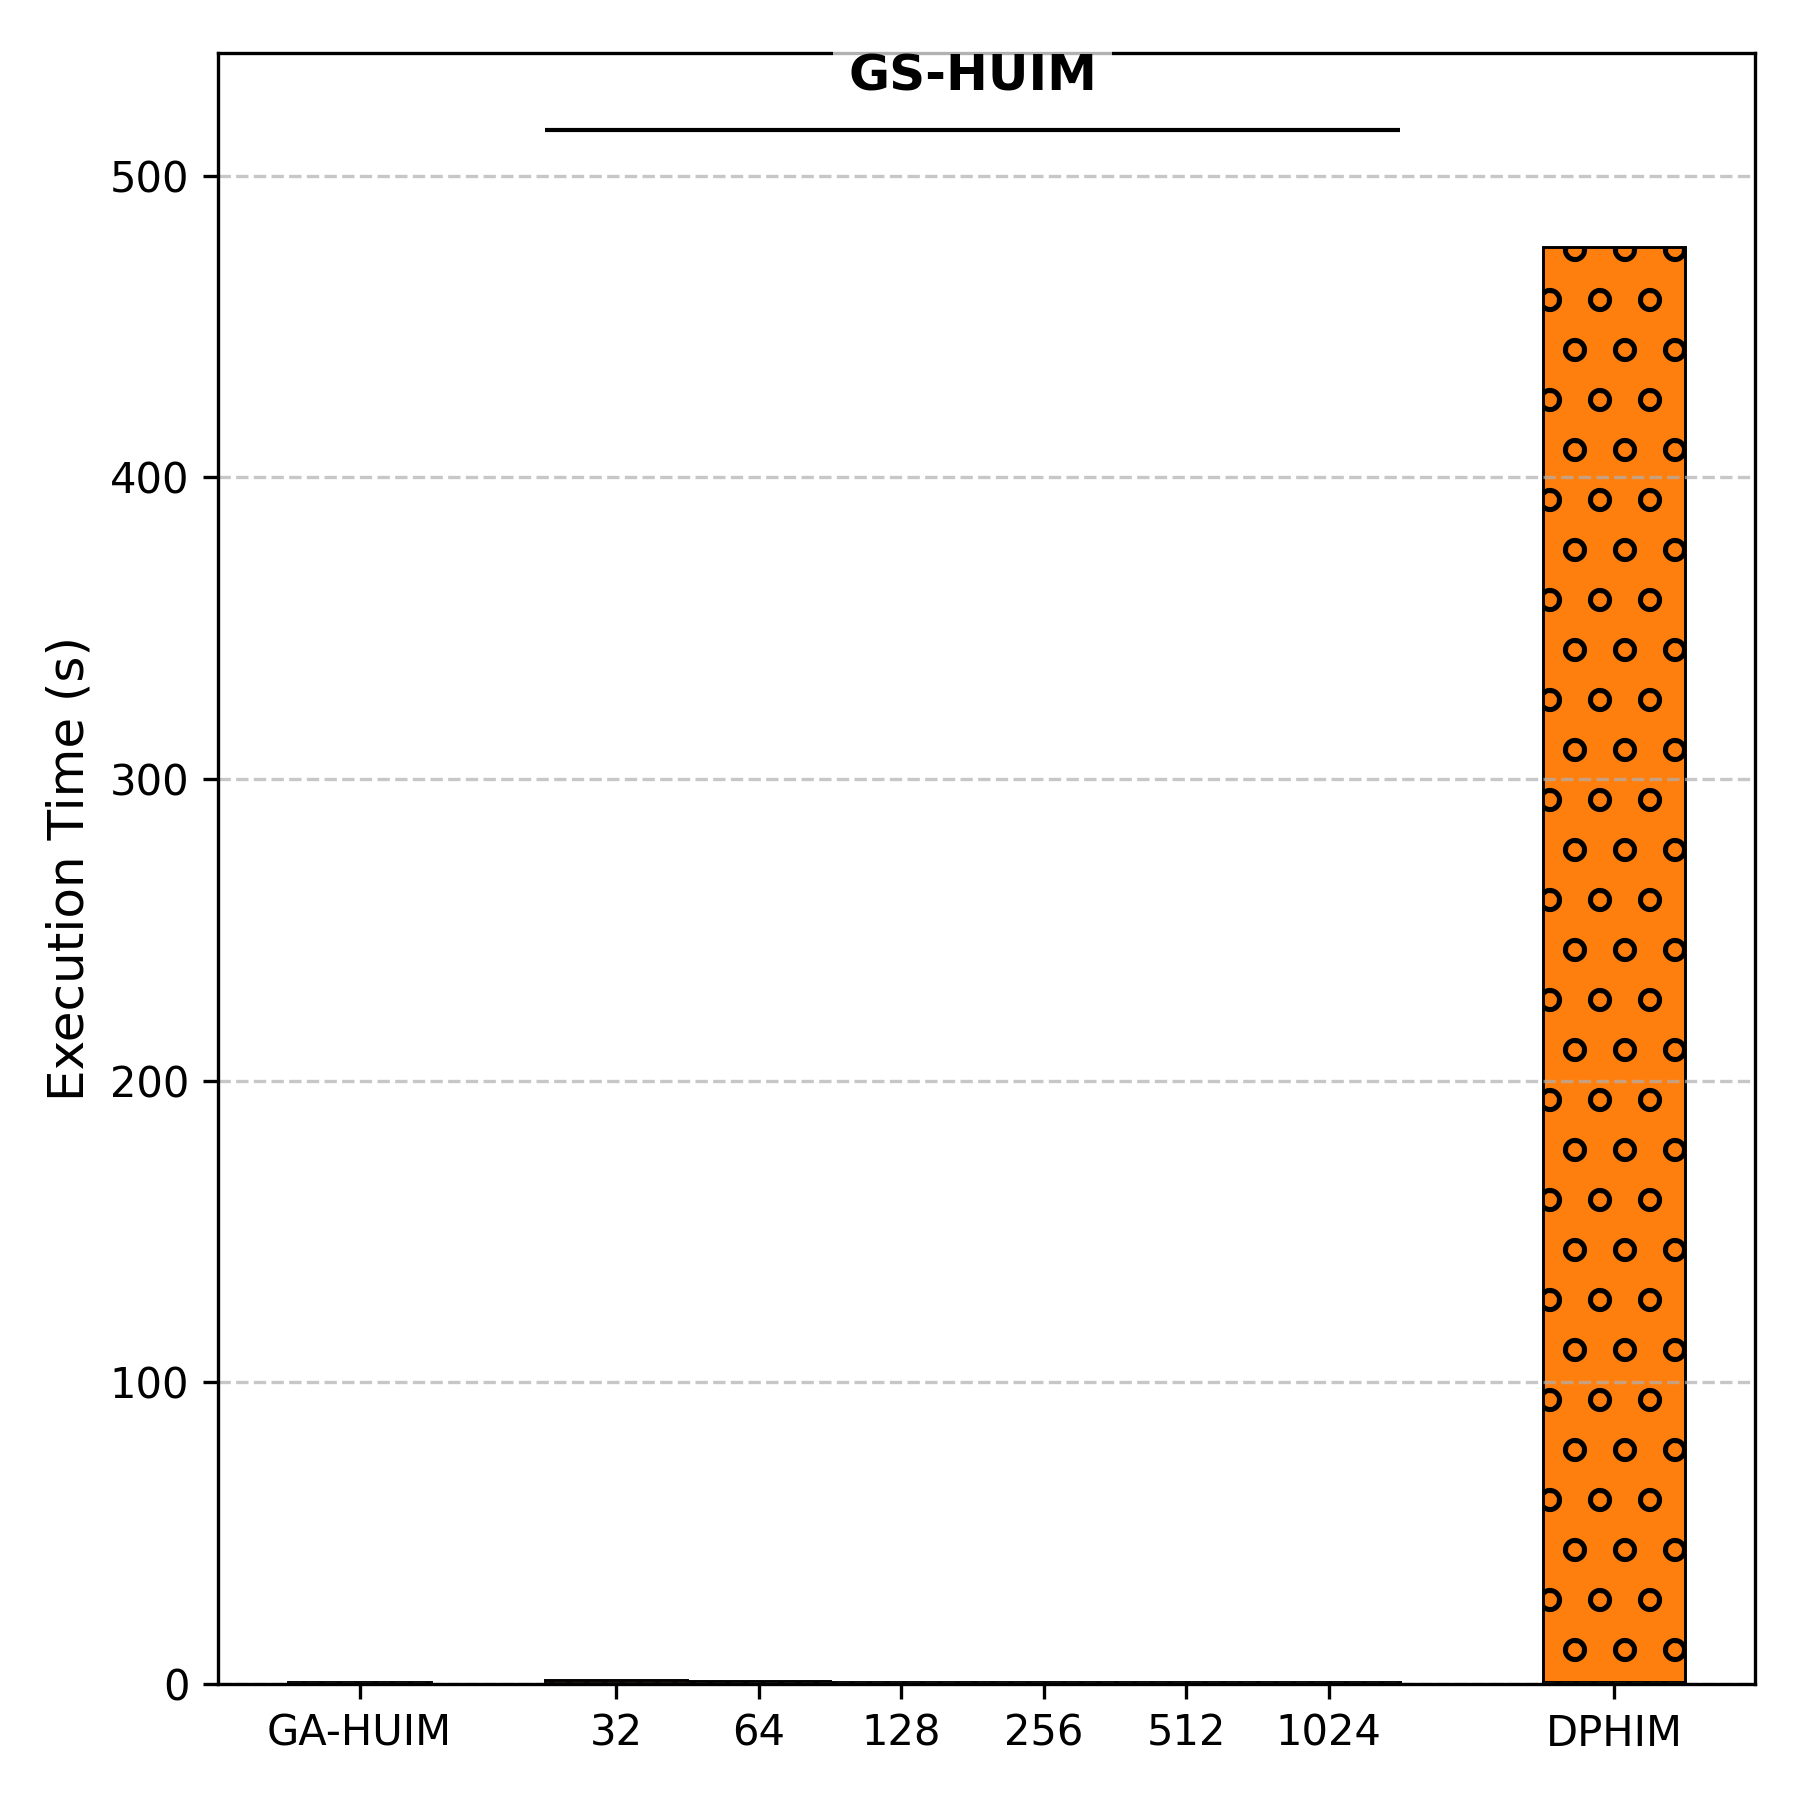
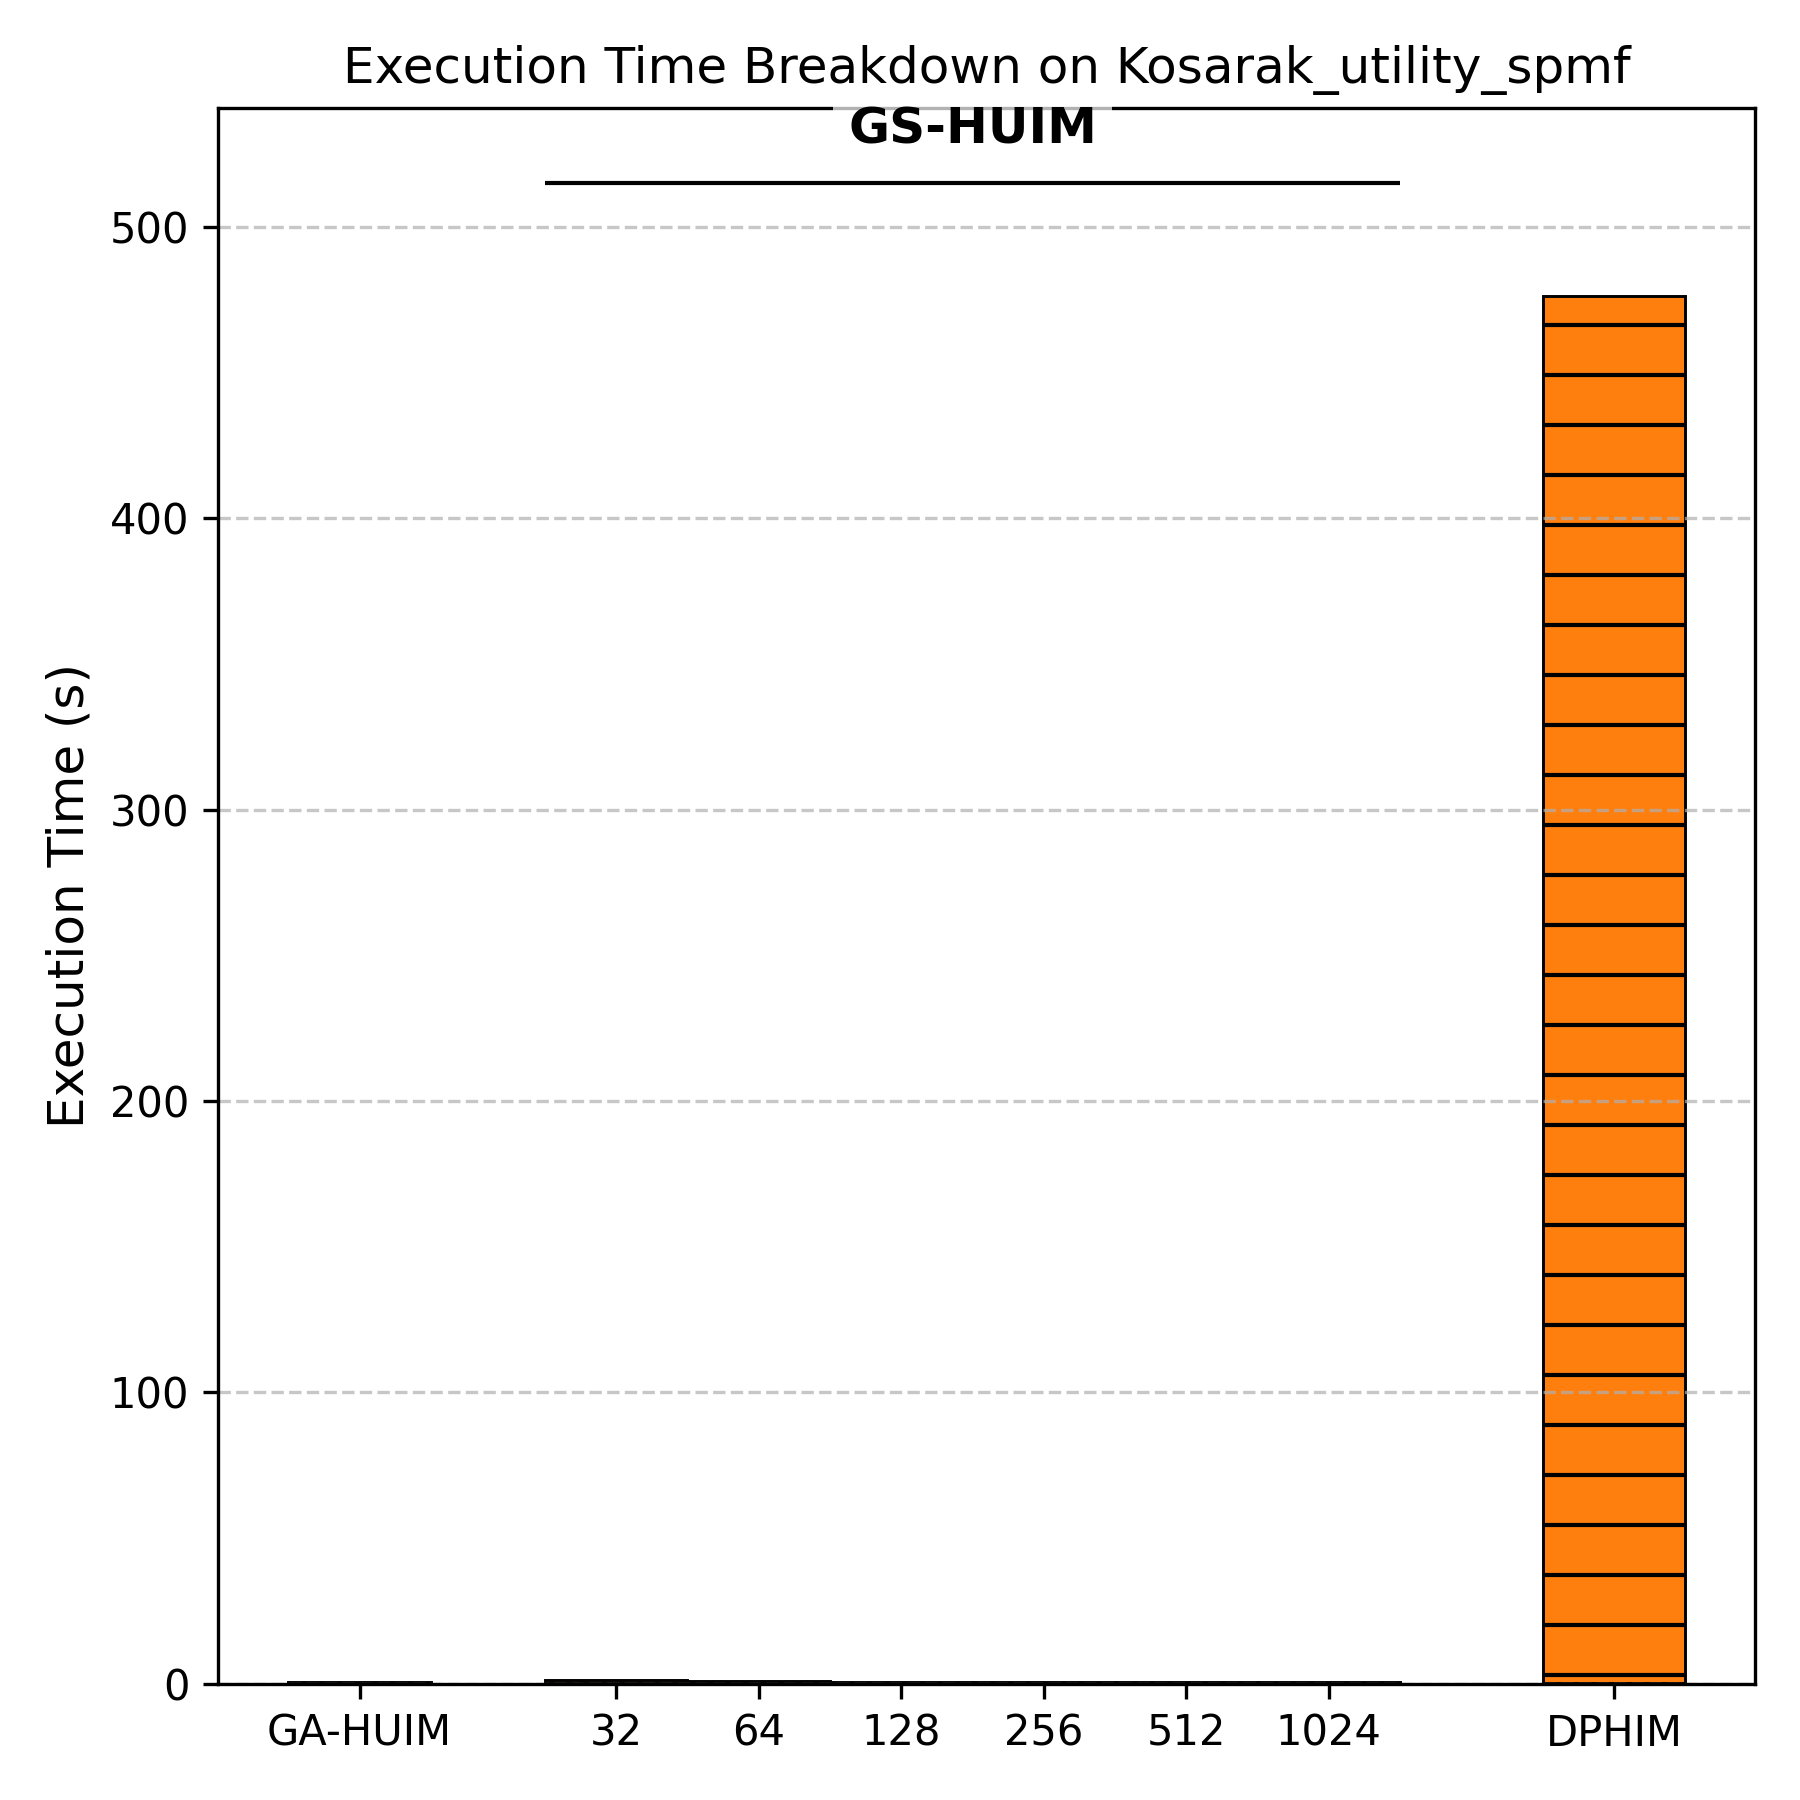
fix graph

diff --git a/experiments/plot_results.py b/experiments/plot_results.py
@@ -99,9 +99,8 @@ def _generate_legends(output_dir: str, all_methods: List[str]):
     fig_phase, ax_phase = plt.subplots(figsize=(4.5, 0.5))
     phases = PHASE_COLORS.keys()
     handles = []
-    for i, p in enumerate(phases):
-        hatch = HATCHES[i % len(HATCHES)]
-        handles.append(Patch(facecolor=PHASE_COLORS[p], label=p, edgecolor='black', hatch=hatch))
+    for p in phases:
+        handles.append(Patch(facecolor=PHASE_COLORS[p], label=p, edgecolor='black'))
     ax_phase.legend(handles=handles, loc="center", ncol=len(phases), frameon=False, title="Execution Phases")
     ax_phase.axis("off")
     fig_phase.savefig(os.path.join(output_dir, "legend_phases.png"), dpi=300, bbox_inches="tight")
@@ -130,6 +129,19 @@ def _generate_legends(output_dir: str, all_methods: List[str]):
     plt.close(fig_line)
     
     logging.info(f"Legends saved to {output_dir}")
+
+    # Method Hatch Legend (shows hatch per method)
+    fig_hatch, ax_hatch = plt.subplots(figsize=(7, 1.5))
+    hatch_handles = []
+    # Use same ordering as methods_for_legend
+    for i, m in enumerate(methods_for_legend):
+        hatch = HATCHES[i % len(HATCHES)]
+        hatch_handles.append(Patch(facecolor=METHOD_COLORS.get(m, 'gray'), label=method_nice_names[m], edgecolor='black', hatch=hatch))
+
+    ax_hatch.legend(handles=hatch_handles, loc='center', ncol=3, frameon=False, title='Method Hatches')
+    ax_hatch.axis('off')
+    fig_hatch.savefig(os.path.join(output_dir, 'legend_hatches.png'), dpi=300, bbox_inches='tight')
+    plt.close(fig_hatch)
 
 def _plot_breakdown_chart(df_file: pd.DataFrame, output_path: str):
     """Generate and save a stacked bar chart of execution time breakdown with custom order/labels."""
@@ -176,14 +188,15 @@ def _plot_breakdown_chart(df_file: pd.DataFrame, output_path: str):
     positions = np.array([ga_center] + list(gs_positions_centered) + [dphim_center])
     
     # 3. Plot the bars
-    for method, pos in zip(plot_methods, positions):
+    # Use a distinct hatch per bar (method) so each bar gets a different hatch pattern
+    for method_idx, (method, pos) in enumerate(zip(plot_methods, positions)):
         row = df_subset[df_subset["AlgoMeth"] == method]
         if row.empty: continue
-        
+
         bottom = 0.0
-        for i, (phase, color) in enumerate(PHASE_COLORS.items()):
+        hatch = HATCHES[method_idx % len(HATCHES)]
+        for phase, color in PHASE_COLORS.items():
             height = row[phase].iloc[0] / 1000.0
-            hatch = HATCHES[i % len(HATCHES)]
             ax.bar(pos, height, bar_width, bottom=bottom, color=color, edgecolor="black", linewidth=0.7, hatch=hatch)
             bottom += height
             
@@ -227,7 +240,7 @@ def _plot_breakdown_chart(df_file: pd.DataFrame, output_path: str):
     ax.grid(True, axis='y', linestyle='--', alpha=0.7)
     
     file_base = df_file["File"].iloc[0]
-    # plt.title(f"Execution Time Breakdown on {file_base.capitalize()}")
+    plt.title(f"Execution Time Breakdown on {file_base.capitalize()}")
     fig.tight_layout()
     plt.savefig(output_path, dpi=300)
     plt.close(fig)
